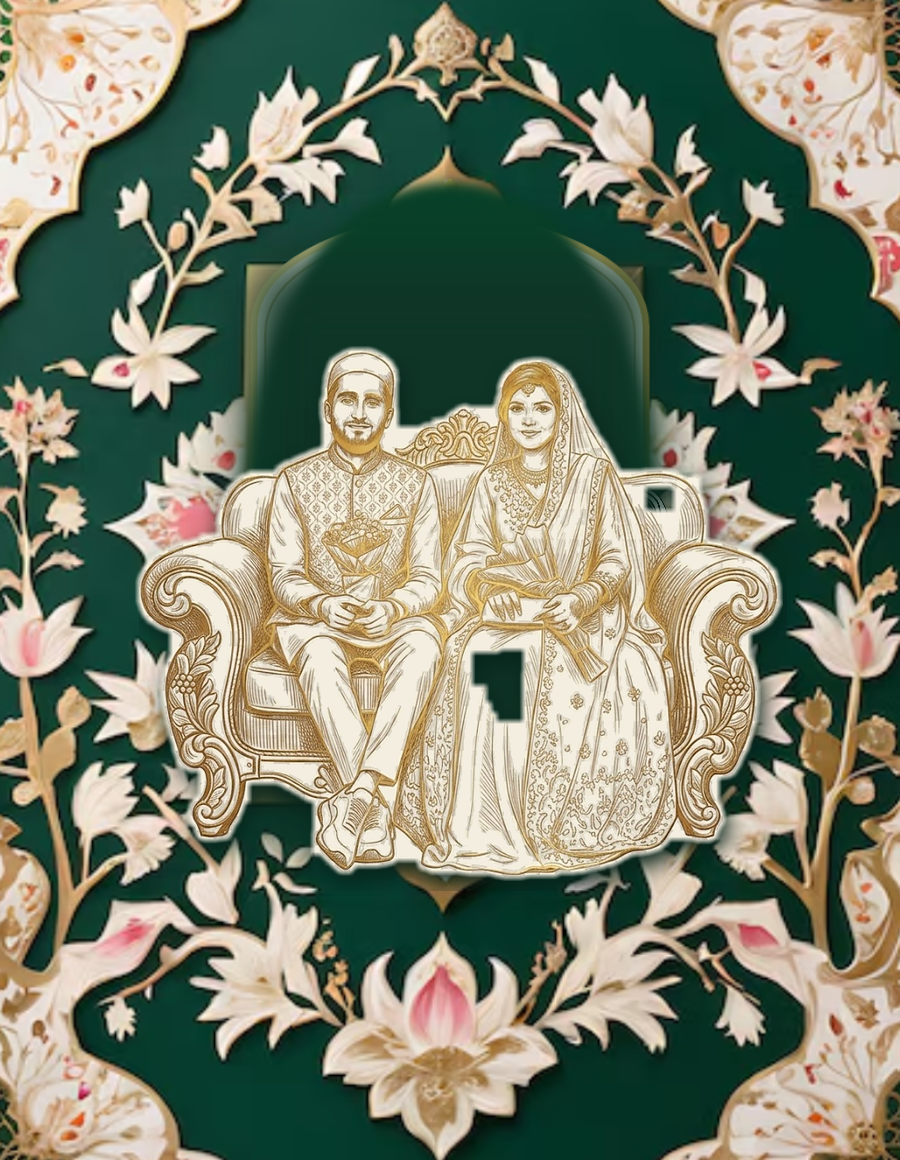
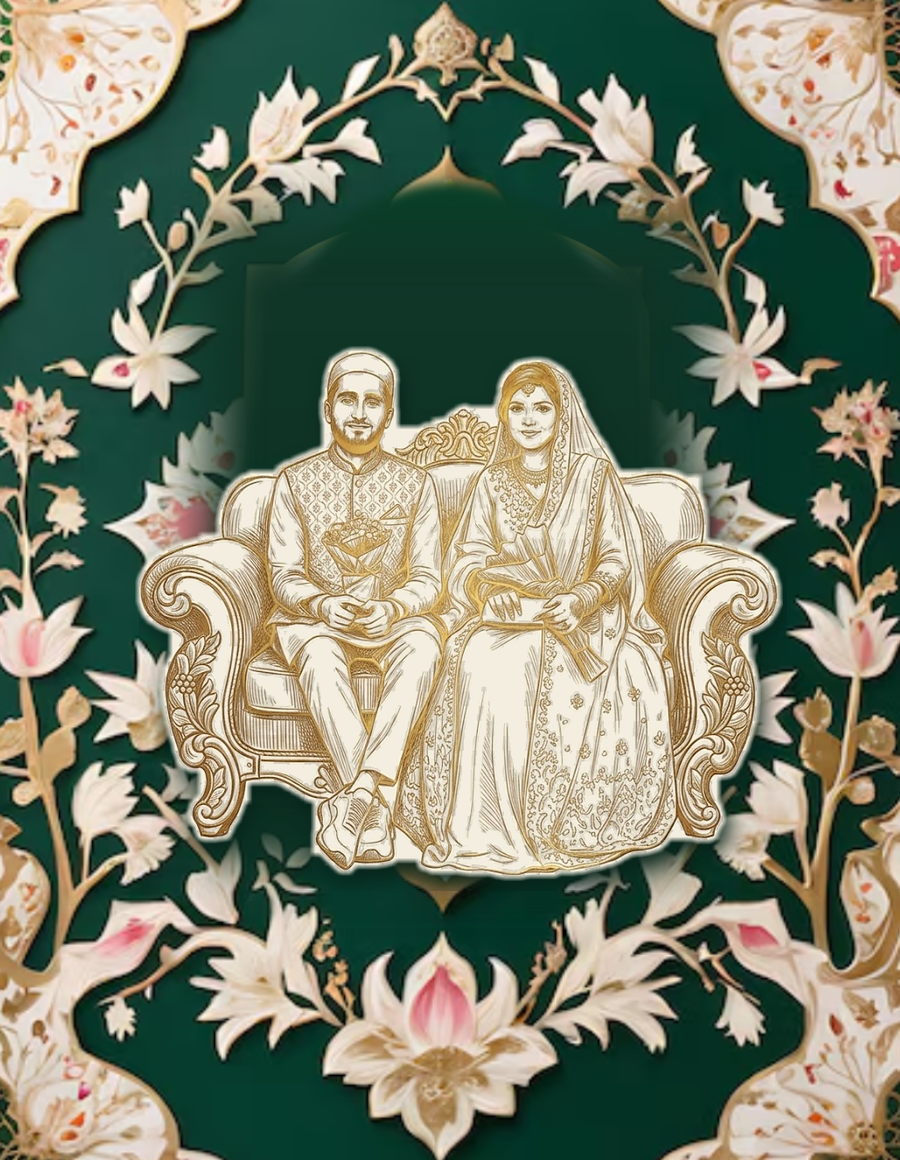
Fix the dress gap, clear the cartouche bars, and build the joining word as a chain
Bride's dress
- The notch was a genuine ~50x70px gap in the SOURCE artwork (measured R-B of
  0-5 there, i.e. checkerboard showing through), not a processing error. The
  hole-seal radius was only 11 so it survived.
- Raising the seal to 38 closed it but bridged the silhouette into a rectangle.
  Instead the body now flood-fills from the OUTSIDE: any empty pixel the outside
  cannot reach is a hole inside the figure and is filled, while concave edges
  stay concave. 4,526px recovered, silhouette intact.

Background
- The two vertical bars were the cartouche frame sitting exactly on the old
  patch boundary. Patch widened to 205-697 so it swallows them.

Joining word
- Rebuilt as an actual chain link rather than a rule either side: a gold thread
  descends from the groom's name, passes through a lozenge-clasped medallion
  carrying the word, and continues to the bride's. The thread does the joining.

diff --git a/public/index.html b/public/index.html
@@ -47,22 +47,33 @@
   .ic-name{font-family:'Cormorant Garamond',serif;font-weight:600;font-size:4.3cqw;line-height:1.04;color:#7C2A38;letter-spacing:-.01em;white-space:nowrap}
   .ic-with{font-family:'Tangerine','Cormorant Garamond',serif;font-style:normal;font-weight:700;font-size:5.6cqw;line-height:.95;background:linear-gradient(#c49a3d,#9c7526);-webkit-background-clip:text;background-clip:text;color:transparent}
 
-  /* 'With' / بہمراہ is the word that joins the two names, so it is set as an
-     ornament rather than a label: gold lettering, tapered rules reaching out to
-     either side, and a small lozenge where each rule meets the word. */
-  .ic-with{display:flex;align-items:center;justify-content:center;gap:1.6cqw;width:100%}
-  .ic-with:before,.ic-with:after{content:'';flex:1 1 auto;max-width:22%;height:1px;
-    background:linear-gradient(90deg,rgba(200,162,78,0) 0%,rgba(200,162,78,.55) 55%,rgba(200,162,78,.95) 100%)}
-  .ic-with:after{transform:scaleX(-1)}
-  .ic-with i{font-style:normal;position:relative;display:inline-block;padding:0 .5cqw;white-space:nowrap}
+  /* بہمراہ / With is the word that binds the two names, so it is built as an
+     actual CHAIN LINK: a gold thread descends from the groom's name, passes
+     through a lozenge-flanked medallion carrying the word, and continues down
+     to the bride's. The thread is what does the joining; the word rides it. */
+  .ic-with{position:relative;display:flex;flex-direction:column;align-items:center;
+    width:100%;margin:.9cqw 0;gap:0;background:none;-webkit-text-fill-color:initial}
+  .ic-with:before,.ic-with:after{content:'';width:1.4px;height:2.1cqw;
+    background:linear-gradient(180deg,rgba(200,162,78,0),rgba(184,137,47,.95))}
+  .ic-with:after{background:linear-gradient(180deg,rgba(184,137,47,.95),rgba(200,162,78,0))}
+  .ic-with i{position:relative;font-style:normal;display:inline-flex;align-items:center;
+    justify-content:center;padding:.5cqw 3.2cqw;border-radius:999px;white-space:nowrap;
+    border:1px solid rgba(184,137,47,.55);
+    background:radial-gradient(120% 160% at 50% 0%,rgba(253,243,220,.95),rgba(247,232,198,.55));
+    box-shadow:inset 0 0 0 3px rgba(253,243,220,.85),0 1px 0 rgba(184,137,47,.28);
+    background-clip:padding-box}
   .ic-with i:before,.ic-with i:after{content:'\2756';position:absolute;top:50%;
-    transform:translateY(-50%);font-size:1.2cqw;line-height:1;color:#c8a24e;
-    font-family:Georgia,serif;opacity:.92;-webkit-text-fill-color:#c8a24e}
-  .ic-with i:before{left:-1.5cqw}
-  .ic-with i:after{right:-1.5cqw}
-  .inv-ur .ic-with{gap:2.1cqw}
-  .inv-ur .ic-with i{padding:0 .7cqw}
-  .inv-ur .ic-with i:before,.inv-ur .ic-with i:after{font-size:1.35cqw}
+    transform:translateY(-50%);font-size:1.5cqw;line-height:1;color:#b8892f;
+    font-family:Georgia,serif;-webkit-text-fill-color:#b8892f}
+  .ic-with i:before{left:-.55cqw}
+  .ic-with i:after{right:-.55cqw}
+  .ic-with i span{background:linear-gradient(180deg,#d8ae57,#9c7526);
+    -webkit-background-clip:text;background-clip:text;color:transparent;
+    -webkit-text-fill-color:transparent}
+  .inv-ur .ic-with{margin:1.3cqw 0}
+  .inv-ur .ic-with:before,.inv-ur .ic-with:after{height:2.5cqw}
+  .inv-ur .ic-with i{padding:.85cqw 3.4cqw}
+  .inv-ur .ic-with i:before,.inv-ur .ic-with i:after{font-size:1.7cqw}
   .ic-parent{font-family:'Cormorant Garamond',serif;font-style:italic;font-weight:500;font-size:2.1cqw;letter-spacing:.01em;color:#6a4f2c;margin-top:.3cqw;text-wrap:balance}
   .ic-div{width:44%;border-top:1px solid #c8a24e;position:relative;margin:1.6cqw 0}
   .ic-div:before{content:'\2766';position:absolute;top:-1.4cqw;left:50%;transform:translateX(-50%);color:#b8892f;font-size:2cqw;background:#fdf3dc;padding:0 1.4cqw}
@@ -308,7 +319,7 @@
 
 <script src="./content.js?v=4"></script>
 <script src="./audio.js?v=2"></script>
-<script src="./letter3d.js?v=28"></script>
+<script src="./letter3d.js?v=29"></script>
 <script>
 (function(){
   "use strict";
@@ -529,7 +540,7 @@
         '<div class="ic-fl">&#10086;&#160;&#10087;&#160;&#10086;</div>' +
         '<div class="ic-name">'+esc(d.groom)+'</div>' +
         '<div class="ic-parent">'+esc(d.groomParent)+'</div>' +
-        '<div class="ic-with"><i>'+esc(d.withWord)+'</i></div>' +
+        '<div class="ic-with"><i><span>'+esc(d.withWord)+'</span></i></div>' +
         '<div class="ic-name">'+esc(d.bride)+'</div>' +
         '<div class="ic-parent">'+esc(d.brideParent)+'</div>' +
         '<div class="ic-div"></div>' +

diff --git a/public/letter3d.js b/public/letter3d.js
@@ -566,7 +566,7 @@
     var panelMat=new THREE.MeshStandardMaterial({ color:0x073329, roughness:1.0, metalness:0.0, envMapIntensity:0.03 });   // fully matte — no per-candle specular smudges
     this._panelMat=panelMat;
     var PPW=PW*0.985, PPH=PH*0.99;
-    loadTex("./assets/front-paper.png?v=7", function(t){
+    loadTex("./assets/front-paper.png?v=8", function(t){
       t.wrapS=t.wrapT=THREE.ClampToEdgeWrapping;
       var planeAsp=PPW/PPH, imgAsp=(t.image.width/t.image.height);
       if(planeAsp>imgAsp){ t.repeat.set(1, imgAsp/planeAsp); t.offset.set(0,(1-imgAsp/planeAsp)/2); }
